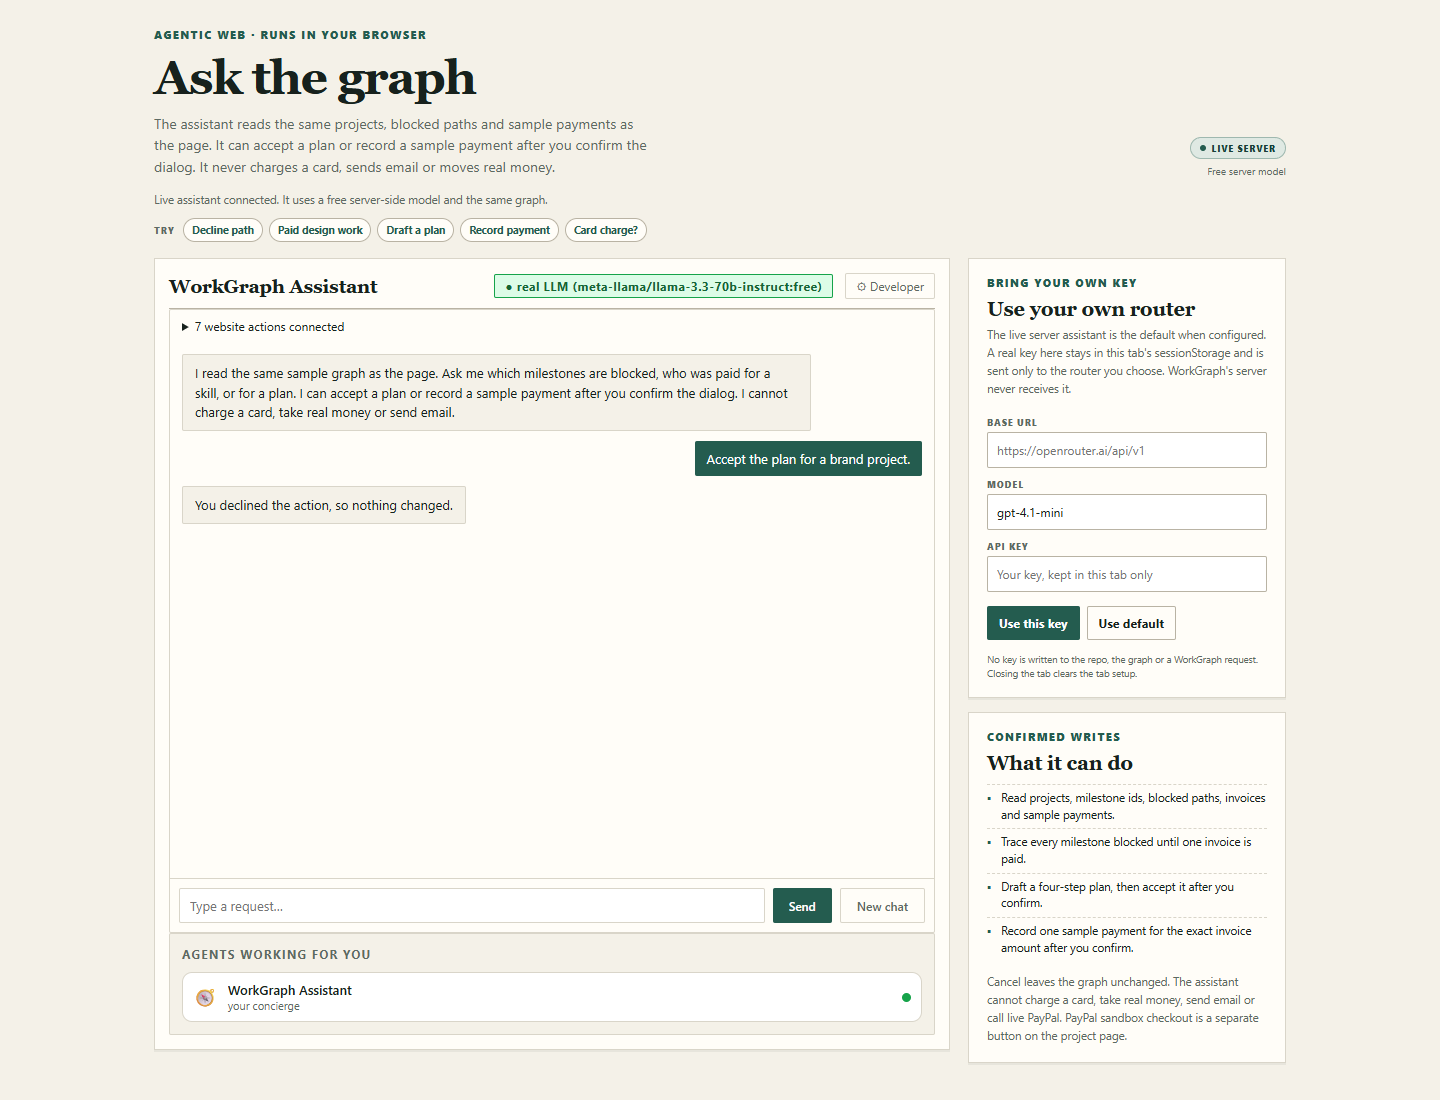
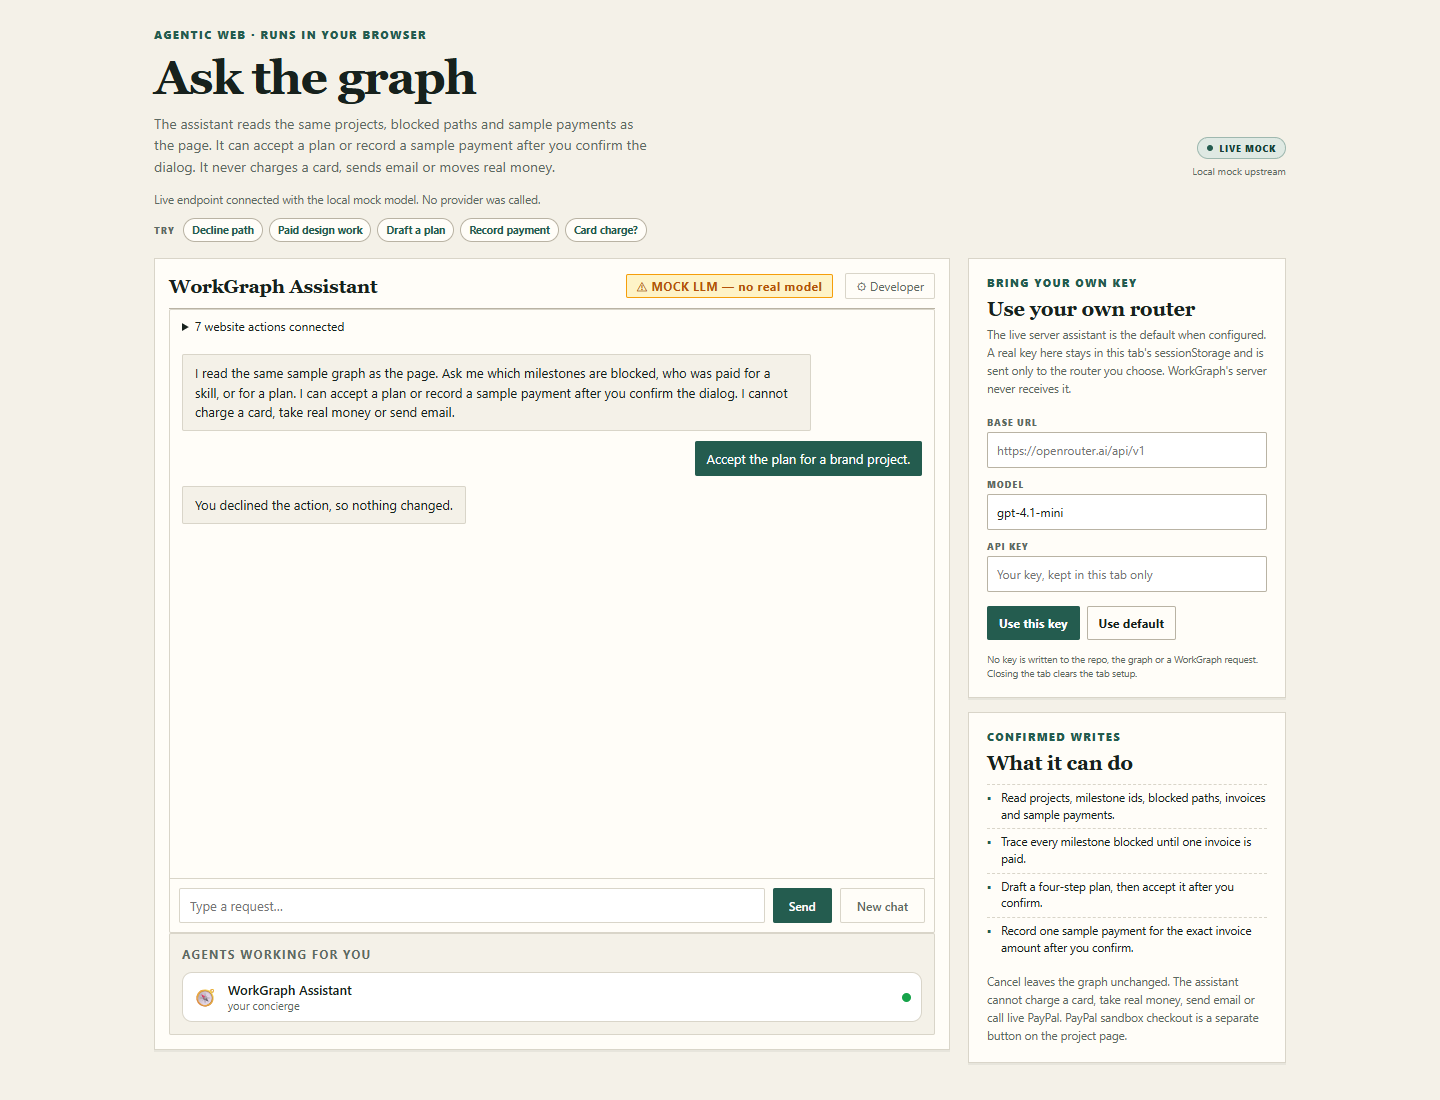
fix: label the local mock assistant and keep the live badge honest
Expose assistant_mock in /api/config, show Live mock plus Local mock upstream in the panel, and mark the runtime route as mock for the explicit local test mode. Production with a real key keeps the live route and LIVE label. Refresh the affected screenshots.

Changed region(s): [[0.3438, 0.2473, 0.5938, 0.2782], [0.125, 0.1545, 0.375, 0.1855], [0.8125, 0.1236, 0.875, 0.1855]]

diff --git a/frontend/src/components/AssistantPanel.tsx b/frontend/src/components/AssistantPanel.tsx
@@ -237,6 +237,7 @@ export function AssistantPanel({ config }: { config: AppConfig | null }) {
   const hostRef = useRef<HTMLDivElement>(null);
   const hasKey = Boolean(setup?.key && setup?.baseUrl);
   const live = Boolean(config?.assistant_live);
+  const mock = Boolean(config?.assistant_mock);
   const production = config?.environment === "production";
 
   function requestConfirmation(items: ConfirmItem[]): Promise<boolean> {
@@ -294,7 +295,10 @@ export function AssistantPanel({ config }: { config: AppConfig | null }) {
             root: Element,
             options: Record<string, unknown>,
           ) => Promise<{
-            engine: { onActionConfirm: (items: unknown) => Promise<boolean> };
+            engine: {
+              onActionConfirm: (items: unknown) => Promise<boolean>;
+              mockLLM?: boolean;
+            };
           }>;
         };
         const root = host.querySelector("#agent-app");
@@ -322,6 +326,7 @@ export function AssistantPanel({ config }: { config: AppConfig | null }) {
         });
         engine.onActionConfirm = (items: unknown) =>
           requestConfirmation(Array.isArray(items) ? (items as ConfirmItem[]) : []);
+        if (mock) engine.mockLLM = true;
         const hiddenKey = host.querySelector<HTMLInputElement>("#ns-key");
         if (hiddenKey) hiddenKey.value = "";
         (window as unknown as { __workgraphAssistant?: unknown }).__workgraphAssistant = engine;
@@ -336,7 +341,9 @@ export function AssistantPanel({ config }: { config: AppConfig | null }) {
           hasKey
             ? `Your key is loaded in this tab and is sent only to ${setup?.baseUrl}.`
             : live
-              ? "Live assistant connected. It uses a free server-side model and the same graph."
+              ? mock
+                ? "Live endpoint connected with the local mock model. No provider was called."
+                : "Live assistant connected. It uses a free server-side model and the same graph."
               : "Local demo model connected. This is a development fallback, not production.",
         );
       } catch (error) {
@@ -348,7 +355,7 @@ export function AssistantPanel({ config }: { config: AppConfig | null }) {
       }
     };
     void bootAssistant();
-  }, [hasKey, setup, bootAttempt, live, production, config]);
+  }, [hasKey, setup, bootAttempt, live, production, config, mock]);
 
   function retryBoot() {
     const host = hostRef.current;
@@ -449,7 +456,9 @@ export function AssistantPanel({ config }: { config: AppConfig | null }) {
   const modeLabel = hasKey
     ? "Your router"
     : live
-      ? "Live server"
+      ? mock
+        ? "Live mock"
+        : "Live server"
       : production
         ? "Not configured"
         : "Local demo";
@@ -476,7 +485,9 @@ export function AssistantPanel({ config }: { config: AppConfig | null }) {
             {hasKey
               ? "Key kept in this tab"
               : live
-                ? "Free server model"
+                ? mock
+                  ? "Local mock upstream"
+                  : "Free server model"
                 : production
                   ? "Set OPENROUTER_API_KEY"
                   : "No key needed"}

diff --git a/frontend/src/types.ts b/frontend/src/types.ts
@@ -134,6 +134,7 @@ export type Health = {
 
 export type AppConfig = {
   assistant_live: boolean;
+  assistant_mock: boolean;
   paypal_sandbox_configured: boolean;
   storage_kind: string;
   environment: "production" | "development" | string;

diff --git a/tests/test_api.py b/tests/test_api.py
@@ -387,11 +387,13 @@ def test_config_reports_booleans_without_secrets(client):
     body = client.get("/api/config").json()
     assert set(body) == {
         "assistant_live",
+        "assistant_mock",
         "paypal_sandbox_configured",
         "storage_kind",
         "environment",
     }
     assert isinstance(body["assistant_live"], bool)
+    assert isinstance(body["assistant_mock"], bool)
     assert isinstance(body["paypal_sandbox_configured"], bool)
     assert body["storage_kind"] == "local_file"
     assert "secret" not in json.dumps(body).lower()
@@ -442,7 +444,7 @@ def test_assistant_endpoint_reports_quota_and_returns_sse(tmp_path):
         )
         assert first.status_code == 200
         assert first.headers["content-type"].startswith("text/event-stream")
-        assert first.headers["x-nsdeploy-llm-route"] == "live"
+        assert first.headers["x-nsdeploy-llm-route"] == "mock"
         assert "data: [DONE]" in first.text
 
         second = client.post(

diff --git a/backend/app.py b/backend/app.py
@@ -288,6 +288,7 @@ def create_app(
     def config() -> dict:
         return {
             "assistant_live": assistant_service.configured,
+            "assistant_mock": bool(getattr(assistant_service, "mock", False)),
             "paypal_sandbox_configured": paypal_client.configured,
             "storage_kind": selected_storage.kind,
             "environment": "production" if _is_production() else "development",
@@ -424,7 +425,9 @@ def create_app(
             media_type="text/event-stream",
             headers={
                 "Cache-Control": "no-store",
-                "X-Nsdeploy-LLM-Route": "live",
+                "X-Nsdeploy-LLM-Route": "mock"
+                if getattr(app.state.assistant, "mock", False)
+                else "live",
             },
         )
 

diff --git a/README.md b/README.md
@@ -146,6 +146,7 @@ milestone names and dependencies, no amounts, and has **Accept plan** and
 ```json
 {
   "assistant_live": true,
+  "assistant_mock": false,
   "paypal_sandbox_configured": true,
   "storage_kind": "vercel_blob",
   "environment": "production"
